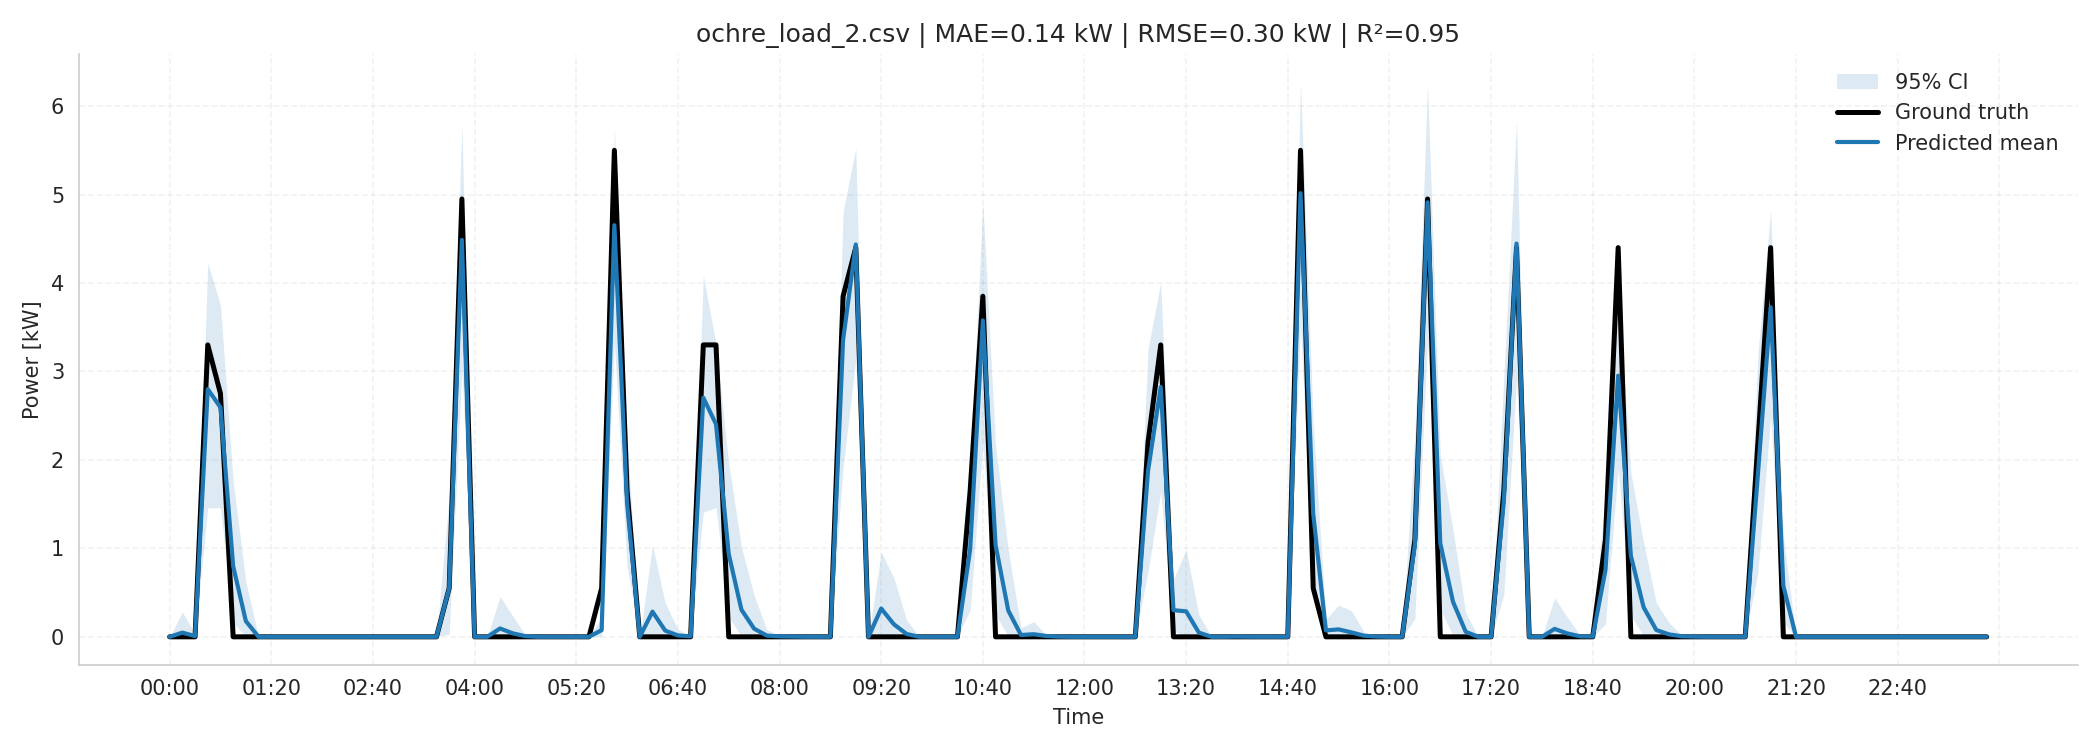
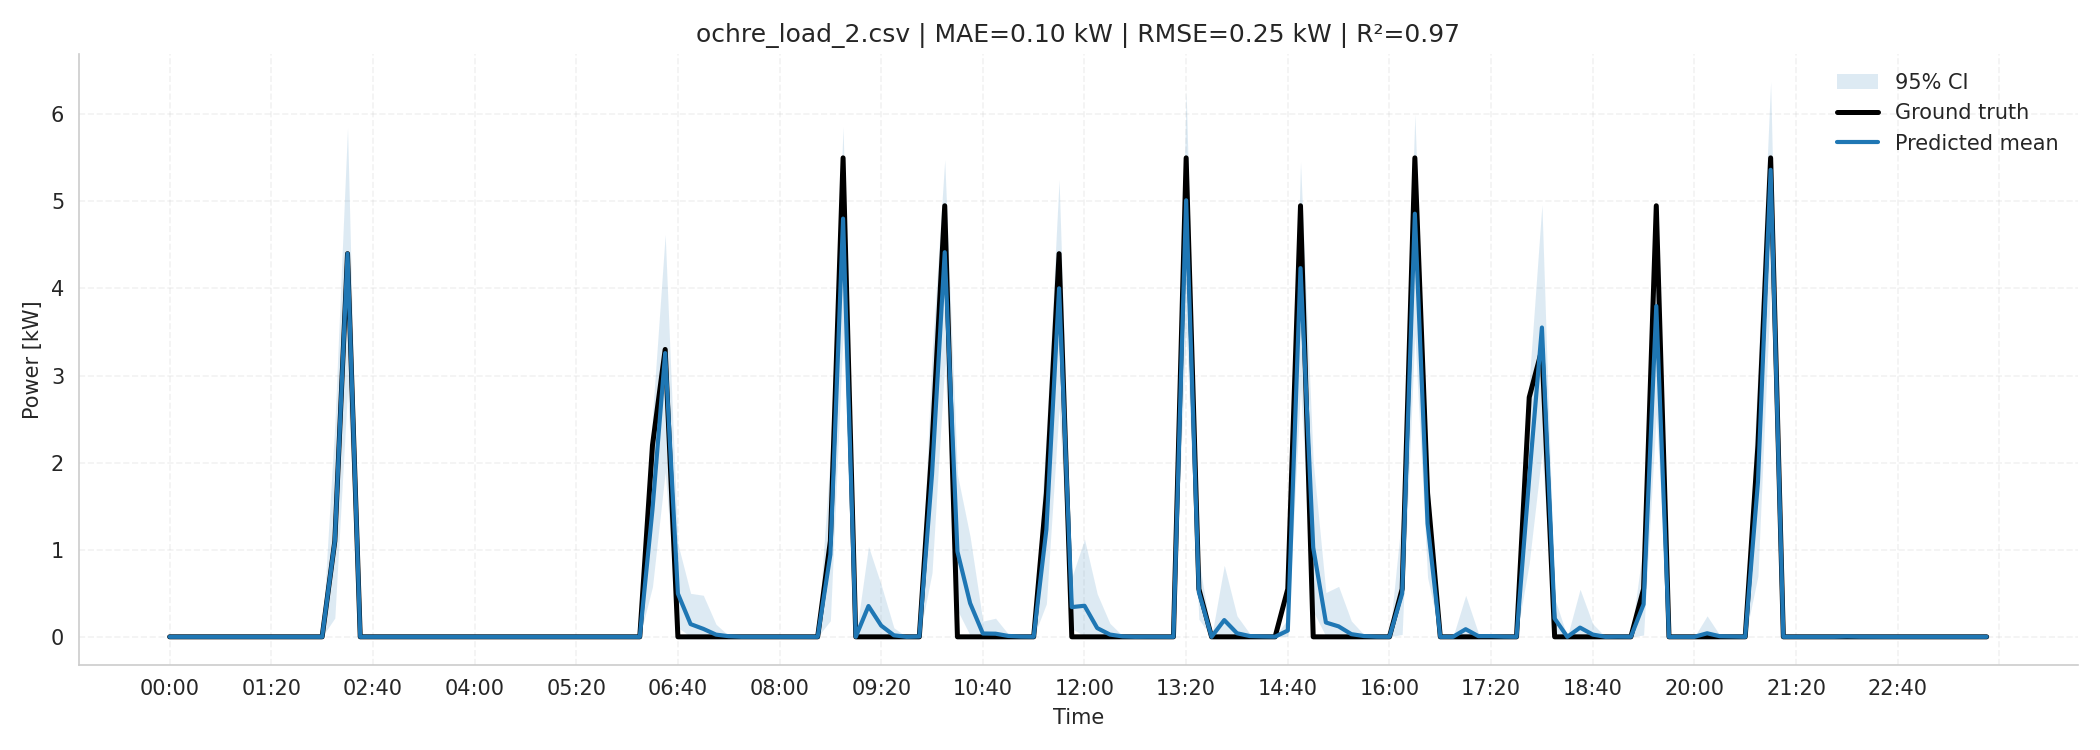
I tried the bayesian on different day. This is working as expected.

diff --git a/cosimulation_tools/gld-ochre-helics/cosim_using_predownloaded_files/scripts/bayesian_implementation.py b/cosimulation_tools/gld-ochre-helics/cosim_using_predownloaded_files/scripts/bayesian_implementation.py
@@ -156,7 +156,8 @@ def create_matrices_from_bayesian_results (df : pd.DataFrame, xfmr_df : pd.DataF
 
 def prepare_transformer_data (transformer_file_dir : str):
     df = pd.read_csv (f'{transformer_file_dir}residential_transformer.csv', skiprows=8)
-    df = df.head (1440)
+    # df = df.head (1440)
+    df = df.iloc [1440:2880]
     df = cleanup_results_files (df=df, col = 'power_out')
     df = df.drop ('power_in', axis=1)
     df = df.set_index ('# timestamp')
@@ -173,7 +174,7 @@ def quantifying_error_metrics (y_true, y_pred):
     nrmse = rmse / (np.max(y_true) - np.min(y_true))
     return mae, rmse, R_squared, mape, nrmse
 
-def vis ():
+def try_different_day ():
     pass
 
 if __name__ == "__main__":
@@ -188,8 +189,9 @@ if __name__ == "__main__":
     cosim_results_df = {}
     # loop through the GLD results from the cosim to build the log dict
     for filename in cosim_results_files:
-        df = pd.read_csv (cosim_results_dir+filename, skiprows=8)
-        df = df.head (1440)
+        df_month = pd.read_csv (cosim_results_dir+filename, skiprows=8)
+        # df = df_month.head (1440)
+        df = df_month.iloc [1440:2880]
         df = cleanup_results_files (df=df, col='constant_power_12')
         df = create_binary_states (df=df, threshold=wh_threshold)
         all_histories[filename] = bayesian_implementation (df=df)
@@ -213,6 +215,8 @@ if __name__ == "__main__":
         # ====================================
 
         fig, ax = plt.subplots(figsize=(14, 5), dpi=150)
+
+        df = df.iloc [1440:2880]
 
         df = value.drop('state', axis=1)
         df = df.set_index('# timestamp')
